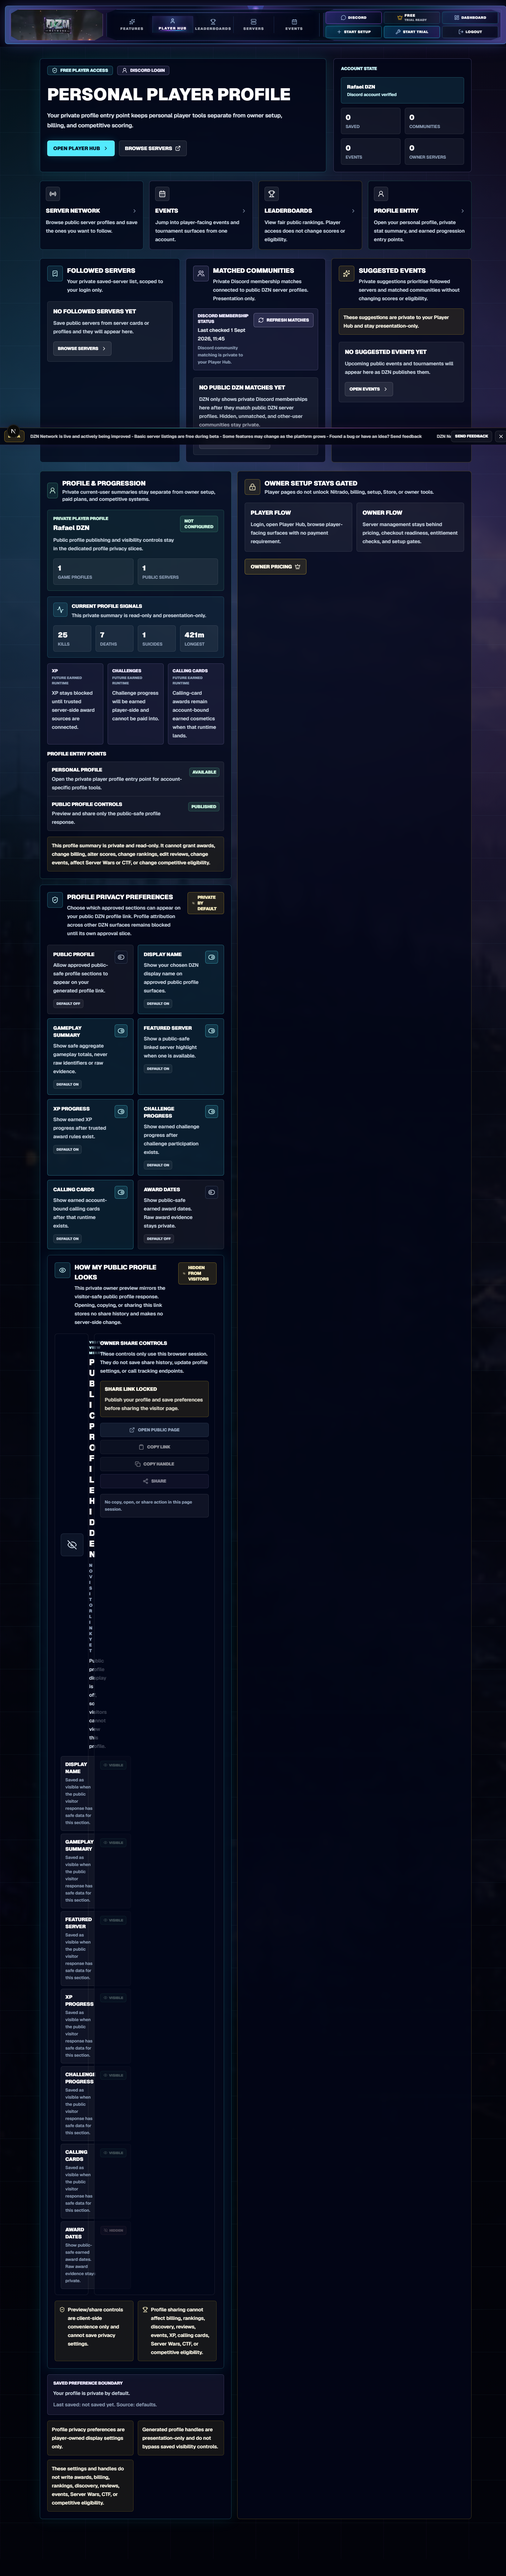
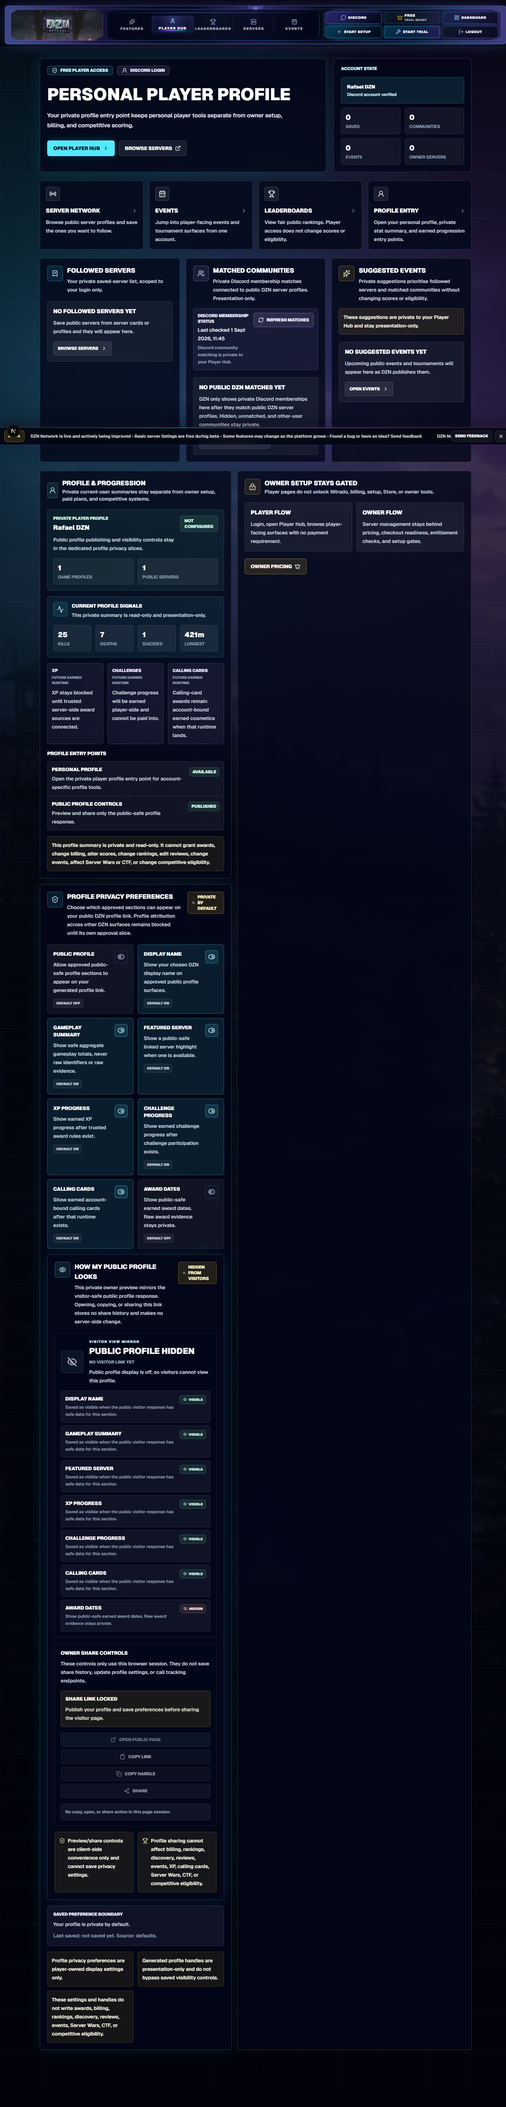
Fix public profile owner preview review issues

Changed region(s): [[0.0, 0.0, 1.0, 0.9678]]

diff --git a/components/player/public-profile-owner-preview-panel.tsx b/components/player/public-profile-owner-preview-panel.tsx
@@ -121,7 +121,11 @@ export function PublicProfileOwnerPreviewPanel({
 
   const validatedHref = safePublicProfileHref(publicProfileHref);
   const validatedHandle = safePublicProfileHandle(publicProfileHandle) ?? handleFromHref(validatedHref);
-  const requestKey = `${publicProfileEnabled ? "public" : "private"}:${validatedHandle ?? "no-handle"}:${validatedHref ?? "no-href"}`;
+  const sectionVisibilityKey = sections
+    .map((section) => `${section.key}:${section.enabled ? "1" : "0"}`)
+    .sort()
+    .join("|");
+  const requestKey = `${publicProfileEnabled ? "public" : "private"}:${validatedHandle ?? "no-handle"}:${validatedHref ?? "no-href"}:${sectionVisibilityKey}`;
   const basePreviewState = previewStateFromInputs(publicProfileEnabled, validatedHref, validatedHandle);
   const previewState: PreviewState = basePreviewState.status === "loading" && remotePreviewState?.requestKey === requestKey
     ? withoutRequestKey(remotePreviewState)
@@ -253,7 +257,7 @@ export function PublicProfileOwnerPreviewPanel({
         <PreviewStatusBadge state={previewState} />
       </div>
 
-      <div className="mt-5 grid gap-4 xl:grid-cols-[minmax(0,0.95fr)_minmax(340px,0.65fr)]">
+      <div className="mt-5 grid gap-4">
         <div className="min-w-0 rounded-lg border border-white/10 bg-slate-950/70 p-4">
           <PreviewHero state={previewState} handle={validatedHandle} href={validatedHref} />
 
@@ -319,23 +323,27 @@ export function PublicProfileOwnerPreviewPanel({
           )}
 
           <div className="mt-4 grid gap-2">
-            <Link
-              href={validatedHref ?? "/player/profile"}
-              target={readyToShare ? "_blank" : undefined}
-              rel={readyToShare ? "noreferrer" : undefined}
-              onClick={() => {
-                if (readyToShare) recordShareAction("opened", "Public profile opened for this page session.");
-              }}
-              aria-disabled={!readyToShare}
-              className={`inline-flex min-h-10 items-center justify-center gap-2 rounded-md px-3 text-xs font-black uppercase transition ${
-                readyToShare
-                  ? "border border-cyan-200/55 bg-cyan-300 text-slate-950 hover:bg-cyan-200"
-                  : "pointer-events-none border border-slate-500/25 bg-slate-700/35 text-slate-400"
-              }`}
-            >
-              <ExternalLink aria-hidden="true" className="h-4 w-4" />
-              Open Public Page
-            </Link>
+            {readyToShare && validatedHref ? (
+              <Link
+                href={validatedHref}
+                target="_blank"
+                rel="noreferrer"
+                onClick={() => recordShareAction("opened", "Public profile opened for this page session.")}
+                className="inline-flex min-h-10 items-center justify-center gap-2 rounded-md border border-cyan-200/55 bg-cyan-300 px-3 text-xs font-black uppercase text-slate-950 transition hover:bg-cyan-200"
+              >
+                <ExternalLink aria-hidden="true" className="h-4 w-4" />
+                Open Public Page
+              </Link>
+            ) : (
+              <button
+                type="button"
+                disabled
+                className="inline-flex min-h-10 cursor-not-allowed items-center justify-center gap-2 rounded-md border border-slate-500/25 bg-slate-700/35 px-3 text-xs font-black uppercase text-slate-400 opacity-70"
+              >
+                <ExternalLink aria-hidden="true" className="h-4 w-4" />
+                Open Public Page
+              </button>
+            )}
             <button
               type="button"
               onClick={copyProfileLink}

diff --git a/scripts/test-public-profile-owner-preview-share-polish.ts b/scripts/test-public-profile-owner-preview-share-polish.ts
@@ -52,6 +52,7 @@ function assertOwnerPreviewPanelContract() {
     "navigator.clipboard?.writeText",
     "navigator.share",
     "new URL(href, \"https://dayz-network.com\").toString()",
+    "sectionVisibilityKey",
     "previewState.status === \"ready\"",
     "shareLockCopy",
     "safePublicProfileHref",
@@ -66,7 +67,22 @@ function assertOwnerPreviewPanelContract() {
     "Owner preview must fetch the same public-safe public profile API without sending player cookies.",
   );
   assert.match(panel, /cache: "no-store"/, "Owner preview must avoid stale preview reads.");
+  assert.match(
+    panel,
+    /requestKey = `\$\{publicProfileEnabled \? "public" : "private"\}:[^`]+:\$\{sectionVisibilityKey\}`/,
+    "Owner preview must invalidate the visitor-safe fetch when saved section visibility changes.",
+  );
   assert.match(panel, /aria-live="polite"/, "Copy/share feedback must be announced accessibly.");
+  assert.doesNotMatch(
+    panel,
+    /xl:grid-cols|href=\{validatedHref \?\? "\/player\/profile"\}|aria-disabled=\{!readyToShare\}/,
+    "Owner preview must stay stacked in the profile column and must not expose a keyboard-activatable locked link.",
+  );
+  assert.match(
+    panel,
+    /\{readyToShare && validatedHref \? \([\s\S]+<Link[\s\S]+href=\{validatedHref\}[\s\S]+\) : \([\s\S]+<button[\s\S]+disabled[\s\S]+Open Public Page/,
+    "Open Public Page must be a real link only after the visitor-safe preview is ready.",
+  );
   assert.doesNotMatch(
     panel,
     /fetch\([^)]*\/api\/player\/profile\/privacy|method:\s*["'](?:POST|PATCH|PUT|DELETE)["']|localStorage|sessionStorage|sendBeacon|gtag|posthog|plausible|document\.cookie/i,

diff --git a/docs/PUBLIC_PROFILE_OWNER_PREVIEW_SHARE_POLISH_HANDOFF.md b/docs/PUBLIC_PROFILE_OWNER_PREVIEW_SHARE_POLISH_HANDOFF.md
@@ -23,6 +23,12 @@ It does not add migrations, public profile write APIs, privacy-setting writes be
 - Handles hidden, disabled, missing-handle, loading, and unavailable preview states.
 - Shows visible/hidden/not-yet-earned section states without exposing private identifiers or raw award evidence.
 
+## PR Review Fixes
+
+- Revalidates the visitor-safe preview whenever saved section visibility changes.
+- Keeps the owner preview/share panel stacked so it does not collapse inside the narrower profile-page column.
+- Renders the locked "Open Public Page" state as a disabled button, not a keyboard-activatable link.
+
 ## Privacy And Fairness Boundary
 
 The panel is a private player convenience surface only.
